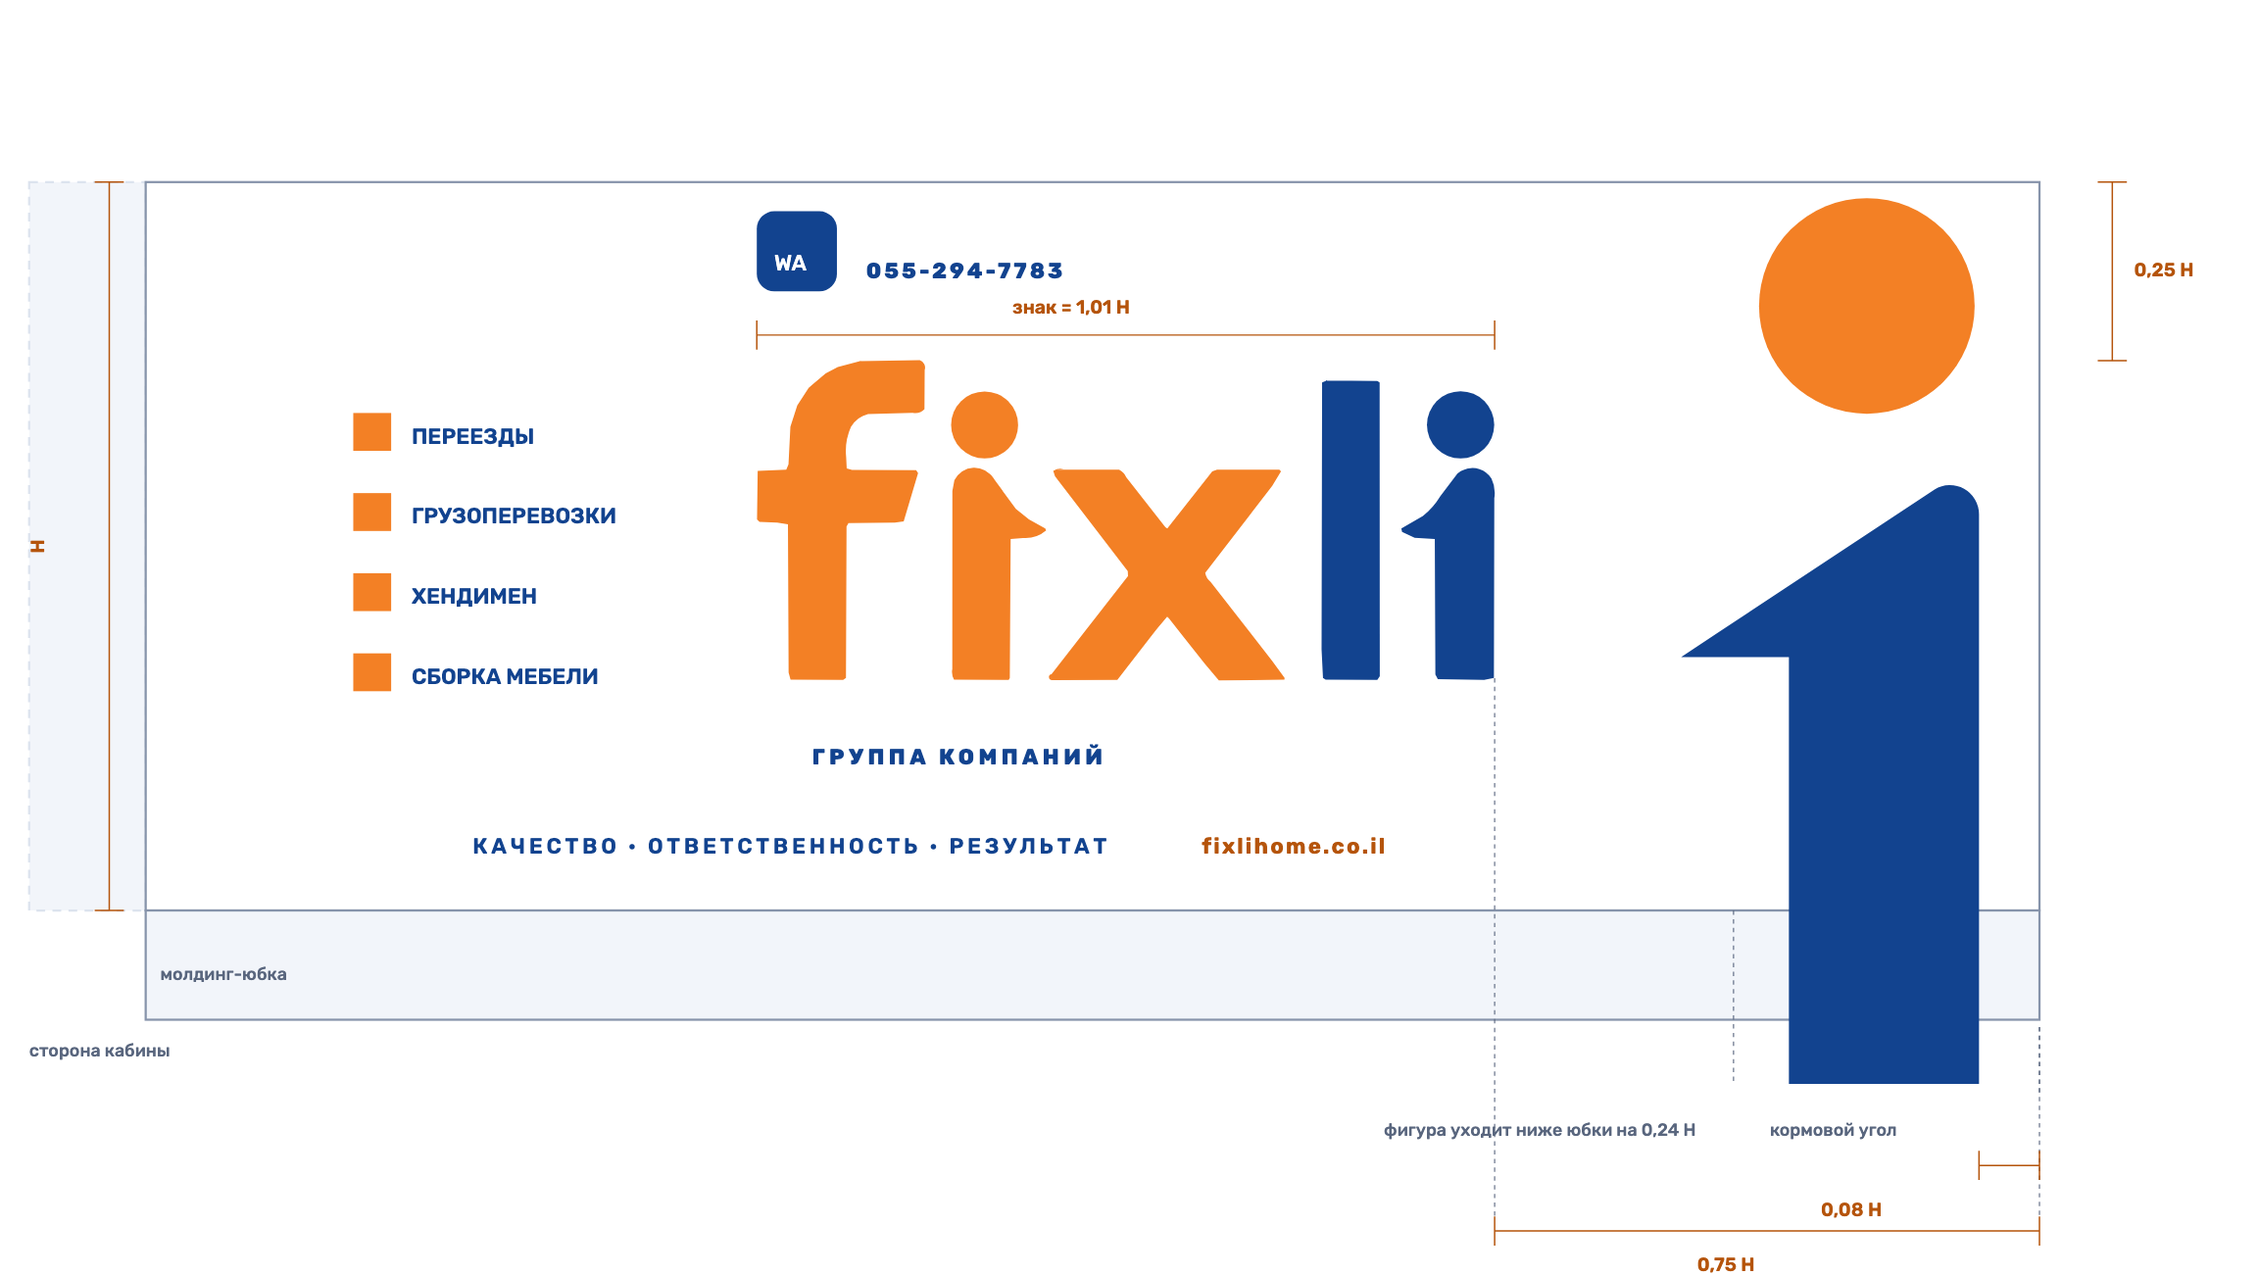
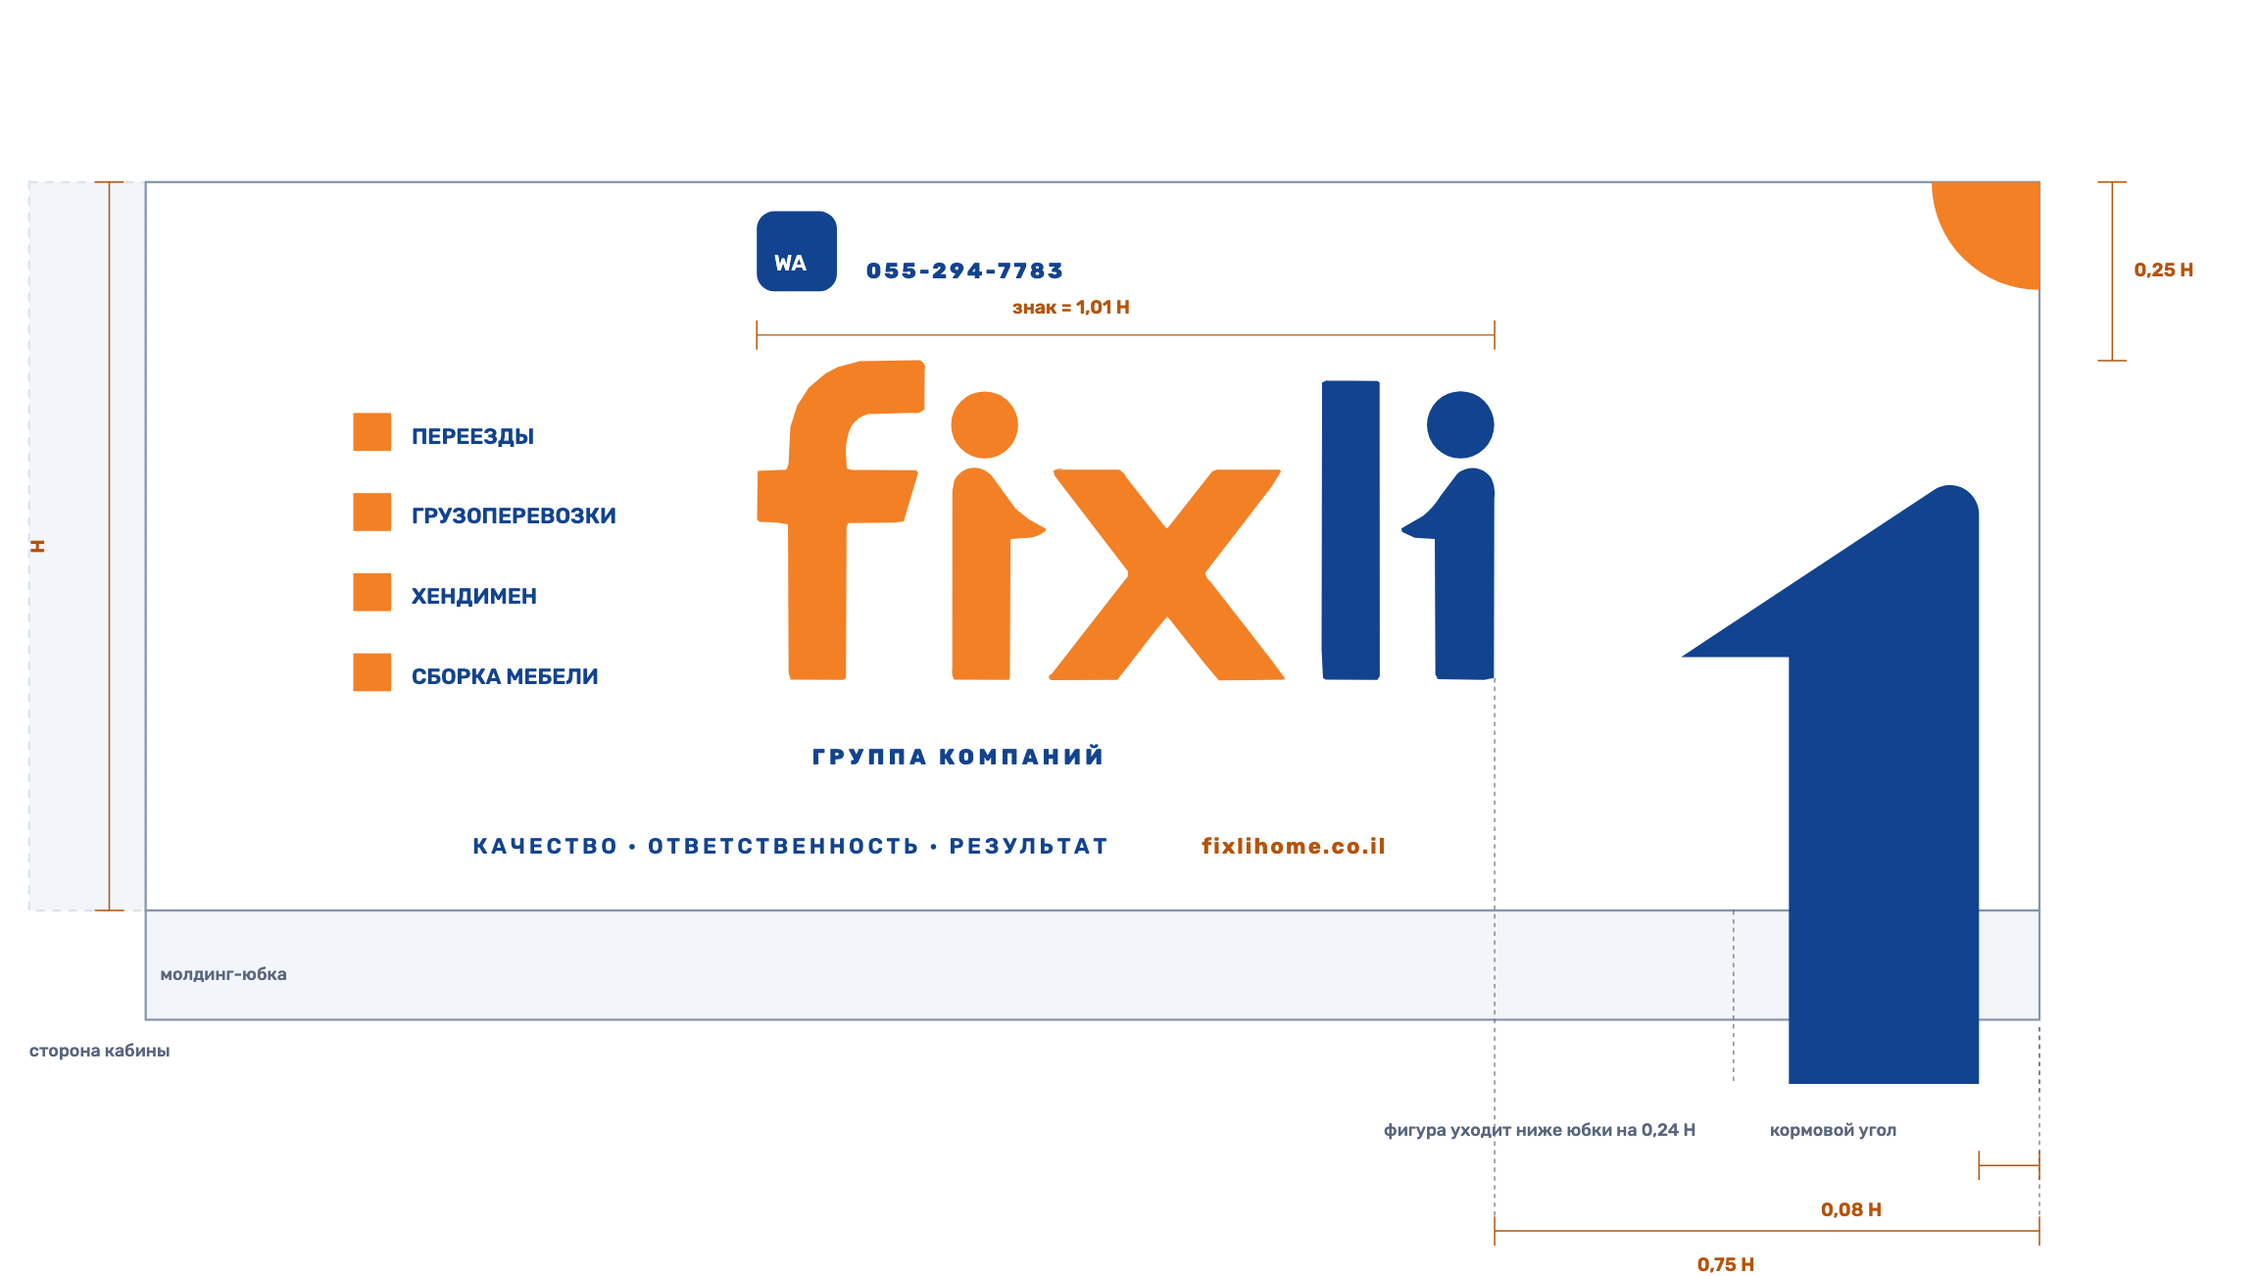
Круг-акцент навылет в угол: правило, чертежи и ТЗ оклейщику

Changed region(s): [[0.7812, 0.1229, 0.9062, 0.3379]]

diff --git a/brand/kit/transport/схемы.html b/brand/kit/transport/схемы.html
@@ -43,8 +43,12 @@
 
       <div class="чертёж" data-имя="борт">
         <svg viewBox="0 0 3100 1750" role="img"
-             aria-label="Схема раскладки левого борта фургона: круг у кормы вверху, синяя фигура у кормового угла, знак fixli по центру, под ним две строки текста, слева блок из четырёх услуг, над знаком контактная строка">
+             aria-label="Схема раскладки левого борта фургона: круг навылет за кормовым верхним углом, синяя фигура у кормового угла, знак fixli по центру, под ним две строки текста, слева блок из четырёх услуг, над знаком контактная строка">
           <title>Раскладка левого борта</title>
+
+          <defs>
+            <clipPath id="панель-борт"><rect x="200" y="250" width="2600" height="1000" /></clipPath>
+          </defs>
 
           <rect class="кабина" x="40" y="250" width="160" height="1000" />
           <text class="подпись подпись--мелко" x="40" y="1450">сторона кабины</text>
@@ -54,7 +58,18 @@
           <text class="подпись подпись--мелко" x="2430" y="1560">кормовой угол</text>
           <path class="выноска" d="M2800 1410 L2800 1500" />
 
-          <circle class="круг" cx="2563" cy="420" r="148" />
+          <!--
+            Круг ставится навылет за кормовой (правый верхний) угол панели и срезается двумя
+            кромками: так он работает на всех носителях бренда — визитка, макеты найма, креативы.
+            Замер существующей оклейки даёт его целым внутри поля (ближний край 0,09 H, верх
+            0,02 H), и по этому замеру схема рисовала целый диск до 2026-08-21. Правку внёс макап:
+            целый круг рядом с головой фигуры читается второй головой. Решение Дмитрия — привести
+            чертёж к правилу; новая оклейка этим расходится с тремя ездящими машинами, и об этом
+            сказано в ТЗ оклейщику.
+          -->
+          <g clip-path="url(#панель-борт)">
+            <circle class="круг" cx="2800" cy="250" r="148" />
+          </g>
 
           <!--
             Фигура: контур приблизительный, точного файла у проекта нет (см. «Чего у нас нет»).
@@ -136,7 +151,7 @@
           </tr>
         </thead>
         <tbody>
-          <tr><td>Оранжевый круг</td><td>0,30 × 0,30 H</td><td>0,09 H</td><td>0,02 H</td></tr>
+          <tr><td>Оранжевый круг</td><td>0,30 × 0,30 H</td><td colspan="2">центр в кормовом верхнем углу панели: видна четверть, две кромки срезают остальное</td></tr>
           <tr><td>Синяя фигура</td><td>0,41 × 0,84 H</td><td>0,08 H</td><td>0,40 H</td></tr>
           <tr><td>Знак <code>fixli</code></td><td>1,01 × 0,44 H</td><td>0,75 H</td><td>0,25 H</td></tr>
           <tr><td>«Группа компаний»</td><td>0,87 × 0,05 H</td><td>0,82 H</td><td>0,76 H</td></tr>
@@ -158,8 +173,12 @@
 
       <div class="чертёж" data-имя="корма">
         <svg viewBox="0 0 1500 1800" role="img"
-             aria-label="Схема раскладки задних дверей: знак вверху по центру, блок услуг слева, оранжевый круг и синяя фигура справа, контактная строка внизу">
+             aria-label="Схема раскладки задних дверей: знак вверху по центру, блок услуг слева, оранжевый круг навылет за правым верхним углом и синяя фигура справа, контактная строка внизу">
           <title>Раскладка кормы</title>
+
+          <defs>
+            <clipPath id="панель-корма"><rect x="200" y="150" width="1000" height="1404" /></clipPath>
+          </defs>
 
           <rect class="кузов" x="200" y="150" width="1000" height="1404" />
           <path class="выноска" d="M700 150 L700 1554" />
@@ -168,7 +187,9 @@
           <image href="../../знак/fixli-знак.svg" x="572" y="290" width="313" height="142" data-знак="298" />
           <text class="подпись подпись--знак" x="645" y="478" data-обещание="бренд.группа" letter-spacing="3">ГРУППА КОМПАНИЙ</text>
 
-          <circle class="круг" cx="1055" cy="666" r="104" />
+          <g clip-path="url(#панель-корма)">
+            <circle class="круг" cx="1200" cy="150" r="104" />
+          </g>
           <path class="фигура"
                 d="M1155 1325 L975 1325 L975 966 L873 966 L1110 830 A30 30 0 0 1 1155 856 Z" />
 

diff --git a/brand/system/components.html b/brand/system/components.html
@@ -2701,10 +2701,12 @@
     <h3 class="образец__имя">Круг-акцент</h3>
     <p class="образец__правило">
       Внутри круга живёт либо марка, либо цифра — третьего наполнения нет. Пустой круг остаётся
-      пятном и уходит за кромку носителя. Роль круга меняется по носителю: на фургоне это сама
-      голова знака, и туда марку не вкладывают; вкладывают только там, где круг — самостоятельное
-      пятно (визитка, макеты найма). Цифра и марка внутри — тёмно-синие: белое по оранжевому даёт
-      2,65 и в системе запрещено.
+      пятном и <strong>всегда уходит навылет в угол носителя</strong> — на визитке, в макетах найма,
+      в креативах и на фургоне. Круг, целиком вписанный в поле, читается вторым диском рядом с
+      головой фигуры, то есть <strong>у фигуры становится две головы</strong>. Роль круга меняется
+      по носителю: на фургоне это сама голова знака, и туда марку не вкладывают; вкладывают только
+      там, где круг — самостоятельное пятно (визитка, макеты найма). Цифра и марка внутри —
+      тёмно-синие: белое по оранжевому даёт 2,65 и в системе запрещено.
     </p>
     <div class="образец__сцена">
       <div class="гр-ряд">

diff --git a/brand/book/05-графика.html b/brand/book/05-графика.html
@@ -495,6 +495,17 @@
       </p>
 
       <p>
+        <span class="бб-метка бб-метка--решение">наше решение</span> <strong>Правило сильнее одного
+        замера, и это проверено 2026-08-21.</strong> Пятно на фотографии оклейки измеряется целым:
+        65 × 62 px на левом борту, 63 × 65 на правом, 49 × 47 на корме, отношение сторон 0,97–1,05,
+        верх ниже кромки панели на 0,02–0,04 H. На этом основании раздел был переписан — и правка
+        откачена в тот же день: на макапе, собранном по ней, круг превратился в самостоятельный диск
+        над фигурой, то есть <strong>у фигуры стало две головы</strong>. Замер описывал форму пятна,
+        а не его роль; роль здесь важнее, и она в следующем абзаце. Круг ставится
+        <strong>навылет в угол на всех носителях</strong>, включая борт и корму.
+      </p>
+
+      <p>
         <span class="бб-метка бб-метка--факт">факт</span> Роль круга меняется по носителю: на
         фургоне это <strong>сама голова знака</strong> (диаметр равен ширине тела фигуры с
         точностью до 2 px на всех трёх поверхностях), и туда ничего не вкладывают. Вкладывают

diff --git a/brand/book/09-стоп-лист.html b/brand/book/09-стоп-лист.html
@@ -266,7 +266,7 @@
             <span class="сп-нет">Нельзя</span>
             <span>
               Вписывать круг-акцент и угловую фигуру целиком в поле
-              <span class="сп-почему">На всех носителях они уходят навылет и обрезаются кромкой макета. Фигура вдобавок стоит на нижнем крае, а не по центру</span>
+              <span class="сп-почему">На всех носителях они уходят навылет и обрезаются кромкой макета. Фигура вдобавок стоит на нижнем крае, а не по центру. Круг, вписанный в поле, читается вторым — лишним — диском рядом с головой фигуры: проверено макапом фургона 2026-08-21</span>
             </span>
           </li>
           <li>

diff --git a/brand/kit/transport/тз-оклейка.md b/brand/kit/transport/тз-оклейка.md
@@ -34,7 +34,14 @@
 
 | Элемент | Размер | Ближний край от кормового угла | Верх от кромки борта |
 |---|---|---|---|
-| Оранжевый круг | 0,30 × 0,30 H | 0,09 H | 0,02 H |
+| Оранжевый круг | 0,30 × 0,30 H | центр — в кормовом верхнем углу панели | видна четверть диска |
+
+> **Круг клеится навылет: его центр совпадает с кормовым верхним углом панели**, то есть на
+> борт попадает четверть диска, остальное срезают верхняя и задняя кромки. На трёх ездящих
+> машинах он стоит иначе — целым, с отступом 0,09 H от угла; расхождение осознанное
+> (решение 2026-08-21). Круг — приём бренда, работающий пятном за кромкой, и целый диск рядом
+> с головой фигуры читается второй головой. Плёнку режут по кромке панели, а не по окружности.
+
 | Синяя фигура | 0,41 × 0,84 H | 0,08 H | 0,40 H |
 | Знак `fixli` | 1,01 × 0,44 H | 0,75 H | 0,25 H |
 | «ГРУППА КОМПАНИЙ» | 0,87 × 0,05 H | 0,82 H | 0,76 H |
